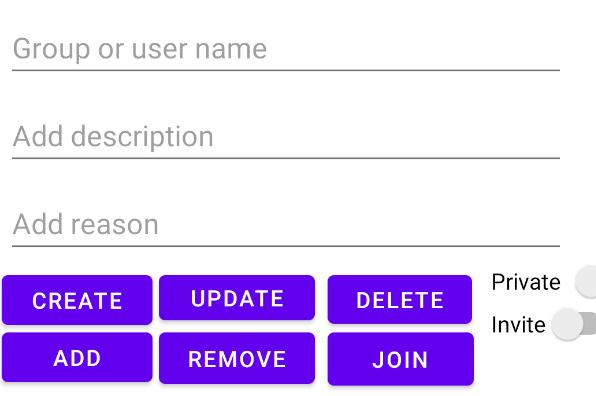
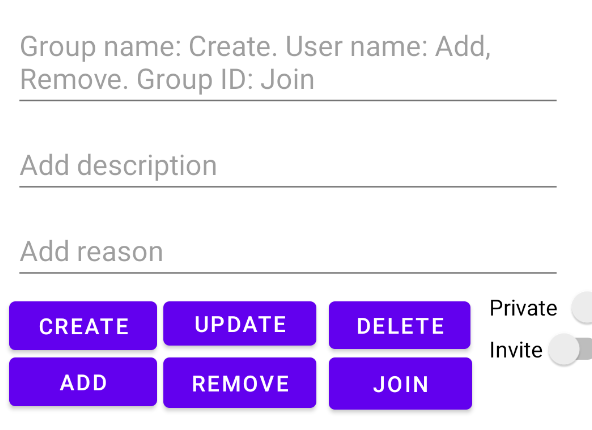
Update after technical review.

diff --git a/en-US/markdown/agora-chat/implement-the-group-workflow.md b/en-US/markdown/agora-chat/implement-the-group-workflow.md
@@ -223,7 +223,9 @@ With elements such as these in your app, you can create and update group functio
 
 Groups have a standard [CRUD](https://en.wikipedia.org/wiki/Create,_read,_update_and_delete) lifecycle. Group Owners only have the rights to create and delete groups. Administrators can update the group name or group description. Standard users cannot change anything about the group.  
 
-In order to manage groups, in `MainActivity`, create the methods called when users click the buttons in your UI:
+In order to manage groups, in `MainActivity`, create the methods called when users click the buttons in your UI. In the following code examples, the group the user creates becomes the current group. Further CRUD operations are made to that group.  
+
+The main group lifecycle actions are: 
 
 * **Create**: enable users to create a group of a standard size where they choose privacy options:   
 
@@ -387,6 +389,8 @@ In open groups, any user in your Agora Chat space may request to join a group. M
 The workflow for group membership is:
 
 - **For private groups**:
+
+   The group owner adds and removes users from the current group:
    1. Add users to a private group:
       ```java
        public void addUsers(View view) {
@@ -454,7 +458,7 @@ The workflow for group membership is:
 
 - **For public groups**:
 
-   All users can retrieve the list of public groups and request access. 
+   All users can retrieve the list of public groups and request access using the group ID: 
     1. Retrieve the list of public groups:
           ```java
           //Get the list of public groups
@@ -469,6 +473,8 @@ The workflow for group membership is:
           ```java
             public void joinGroup(View view) {
               //Retrieve the group ID from the UI.
+              //In a production level UI, you would list the groups and
+              //Retrieve the groups from the list
               String groupID = et_group.getText().toString().trim();
               Group groupToJoin = null;
               //In a production app you would retrieve a list of groups so the user can choose one in the UI
@@ -519,10 +525,10 @@ Sending messages to a group works in exactly the same way as sending a message t
 
 ```java
 //Retrieve the Id of the group your user wants to send a message to
-String myGroupId = myGroup.getGroupId();
+String currentGroupId = currentGroup.getGroupId();
 String content = <Retrieve the text from your UI>;
 //Create a text message. 
-ChatMessage message = ChatMessage.createTxtSendMessage(content, myGroupId);
+ChatMessage message = ChatMessage.createTxtSendMessage(content, currentGroupId);
 //If it is a group chat, set the chat type. Default is single chat
 if (chatType == CHATTYPE_GROUP)
     message.setChatType(ChatType.GroupChat);
@@ -736,6 +742,8 @@ To add a groups listener to your app:
           }
           String currentGroupId = currentGroup.getGroupId();
           final List<String> list = new ArrayList<>();
+          
+          //Retrieve the users in the list
           new Thread(new Runnable() {
             @Override public void run() {
               try {
